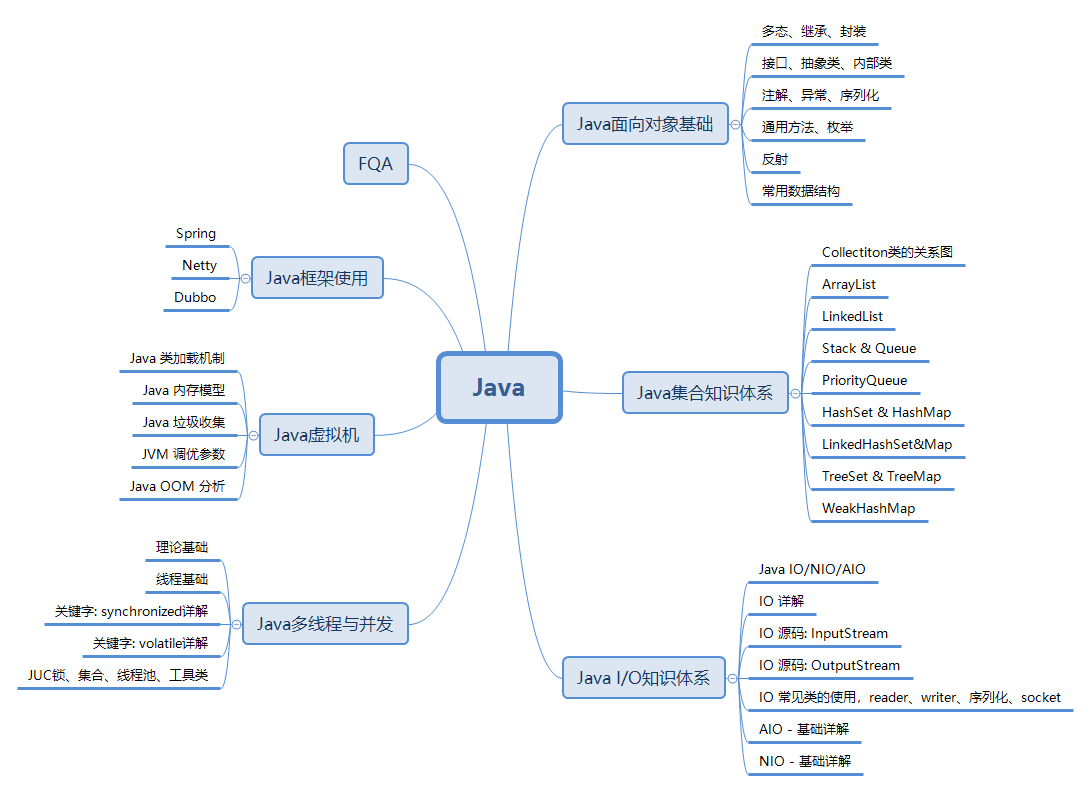
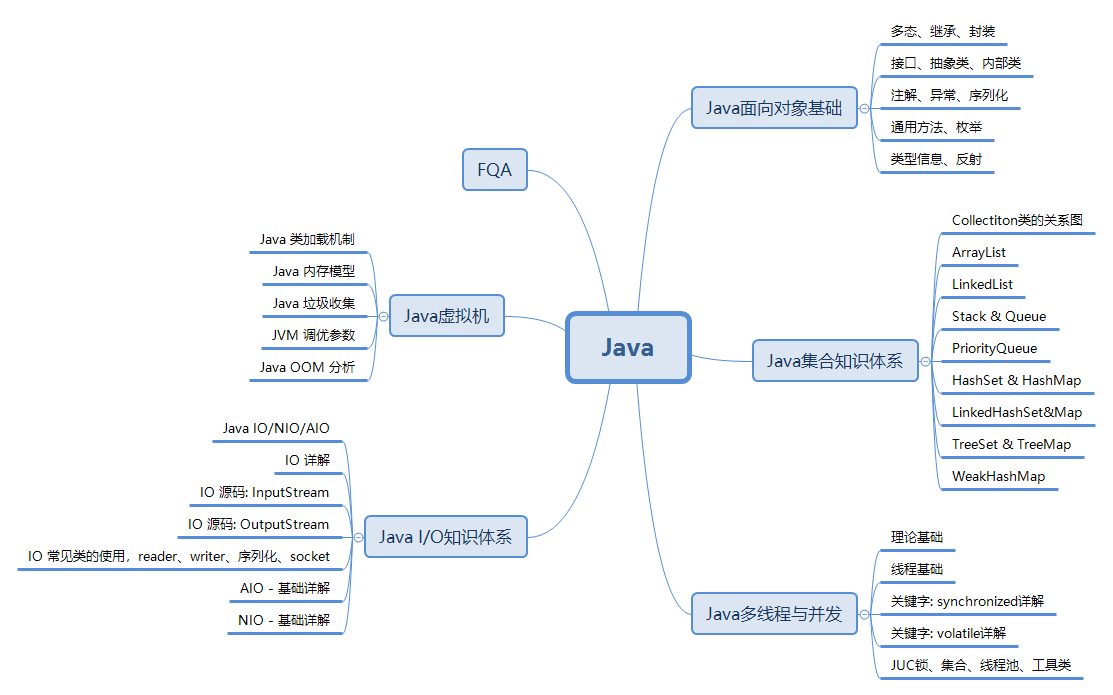
移除已整合文章

diff --git a/src/components/incloude/Header.vue b/src/components/incloude/Header.vue
@@ -28,9 +28,6 @@
                             <router-link :to="{ name: 'JavaType', params: { typeName: 'jvm' }}">
                                 <el-dropdown-item>Java虚拟机</el-dropdown-item>
                             </router-link>
-                            <router-link :to="{ name: 'JavaType', params: { typeName: 'frame' }}">
-                                <el-dropdown-item divided>Java框架使用</el-dropdown-item>
-                            </router-link>
                             <router-link :to="{ name: 'JavaType', params: { typeName: 'fqa' }}">
                                 <el-dropdown-item divided>FQA</el-dropdown-item>
                             </router-link>
@@ -97,20 +94,22 @@
                     </el-dropdown>
                 </router-link>
 
-                <!--方法论-->
-                <el-dropdown class="head-type-ele">
-                        <span class="el-dropdown-link">
-                            百宝箱<i class="el-icon-caret-bottom el-icon--right"></i>
-                        </span>
-                    <el-dropdown-menu slot="dropdown">
-                        <router-link :to="{ name: 'resourceNavigation'}">
-                            <el-dropdown-item>资源导航</el-dropdown-item>
-                        </router-link>
-                        <router-link :to="{ name: 'developeToolsHome'}">
-                            <el-dropdown-item>开发工具</el-dropdown-item>
-                        </router-link>
-                    </el-dropdown-menu>
-                </el-dropdown>
+                <!--百宝箱-->
+                <router-link :to="{ name: 'resourceNavigation'}">
+                    <el-dropdown class="head-type-ele">
+                            <span class="el-dropdown-link">
+                                百宝箱<i class="el-icon-caret-bottom el-icon--right"></i>
+                            </span>
+                        <el-dropdown-menu slot="dropdown">
+                            <router-link :to="{ name: 'resourceNavigation'}">
+                                <el-dropdown-item>资源导航</el-dropdown-item>
+                            </router-link>
+                            <router-link :to="{ name: 'developeToolsHome'}">
+                                <el-dropdown-item>开发工具</el-dropdown-item>
+                            </router-link>
+                        </el-dropdown-menu>
+                    </el-dropdown>
+                </router-link>
 
                 <!--静态资源介绍-->
                 <el-dropdown class="head-type-ele">

diff --git a/src/components/blog/java/JavaIndex.vue b/src/components/blog/java/JavaIndex.vue
@@ -47,7 +47,6 @@
     import HeapAndStack from './oopbase/HeapAndStack.md';
     import EclipseSVNPrevious20181104 from './fqa/EclipseSVNPrevious20181104.md';
     import SomethingNotes from './fqa/SomethingNotes.md';
-    import SpringBootBindCustomPorps from './frame/SpringBootBindCustomPorps.md';
     import ThreadInterrupt from './thread/ThreadInterrupt.md';
     import ThreadGuard from './thread/ThreadGuard.md';
     import ThreadSynchronized from './thread/ThreadSynchronized.md';
@@ -58,7 +57,7 @@
         components:{
             HomePage,
             EclipseSVNPrevious20181104, SomethingNotes, CommonMethodAndEnum,
-            SpringBootBindCustomPorps,  ThreadInterrupt, ThreadGuard, ThreadSynchronized,
+            ThreadInterrupt, ThreadGuard, ThreadSynchronized,
             JavaAnnotation, HeapAndStack, EncapInheritPolymo, InterAbstInner, ExceptionAndSerializable
         },
         data(){
@@ -74,8 +73,7 @@
                             {title:'接口、抽象类、内部类', class:'InterAbstInner'},
                             {title:'Java注解学习', class:'JavaAnnotation'},
                             {title:'异常、序列化', class:'ExceptionAndSerializable'},
-                            {title:'Object通用方法、枚举', class:'CommonMethodAndEnum'},
-                            {title:'操作系统中heap和stack的区别', class:'HeapAndStack'}
+                            {title:'Object通用方法、枚举', class:'CommonMethodAndEnum'}
                         ]
                     }, {
                         title:'Java集合知识体系',
@@ -94,14 +92,10 @@
                         title:'Java虚拟机',
                         data:[]
                     }, {
-                        title:'Java框架使用',
-                        data:[
-                            {title:'SpringBoot配置文件自定义参数绑定失效', class:'SpringBootBindCustomPorps', id:"frame" }
-                        ]
-                    }, {
                         title:'FQA',
                         data:[
                             {title:'平时用到的一些细节记录', class:'SomethingNotes', id:"fqa" },
+                            {title:'操作系统中heap和stack的区别', class:'HeapAndStack'},
                             {title:'SVN - Previous operation has not finished异常', class:'EclipseSVNPrevious20181104' }
                         ]
                     }
